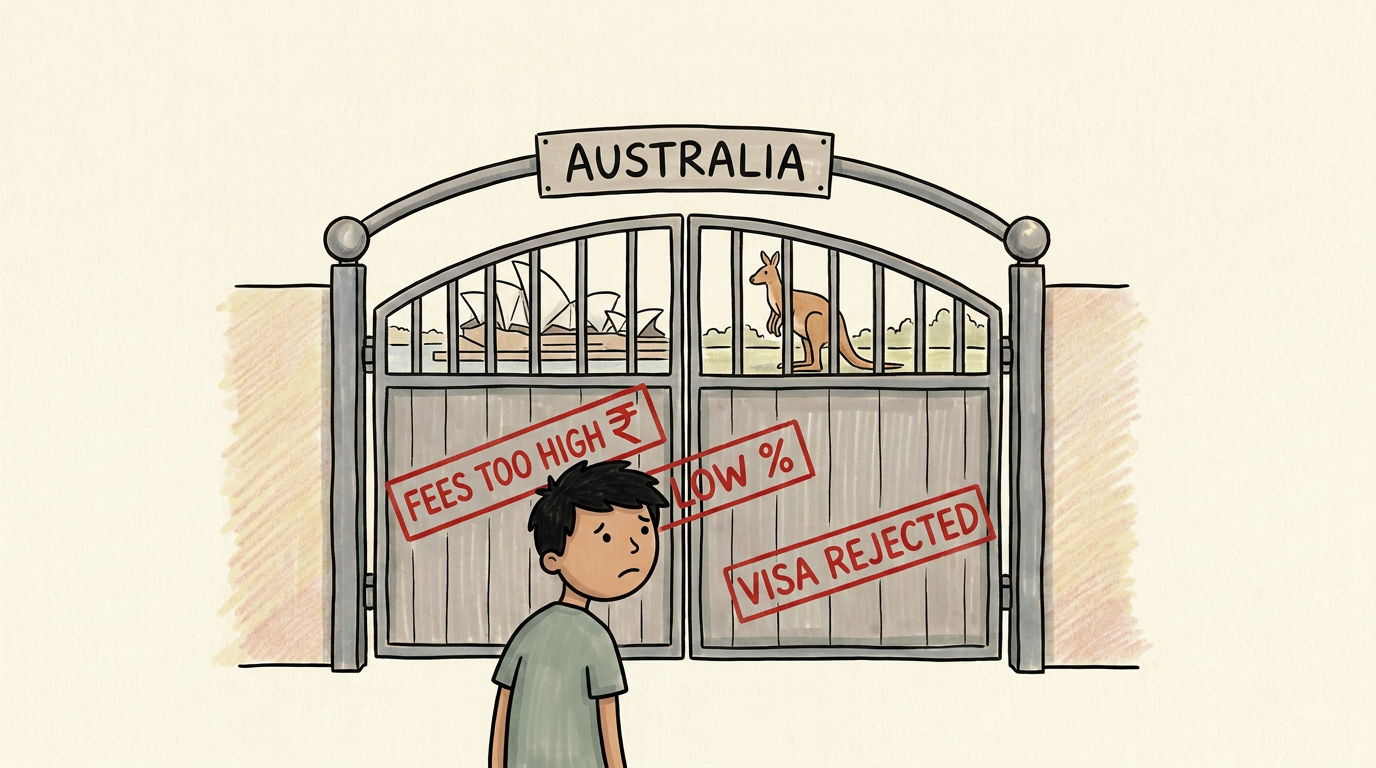
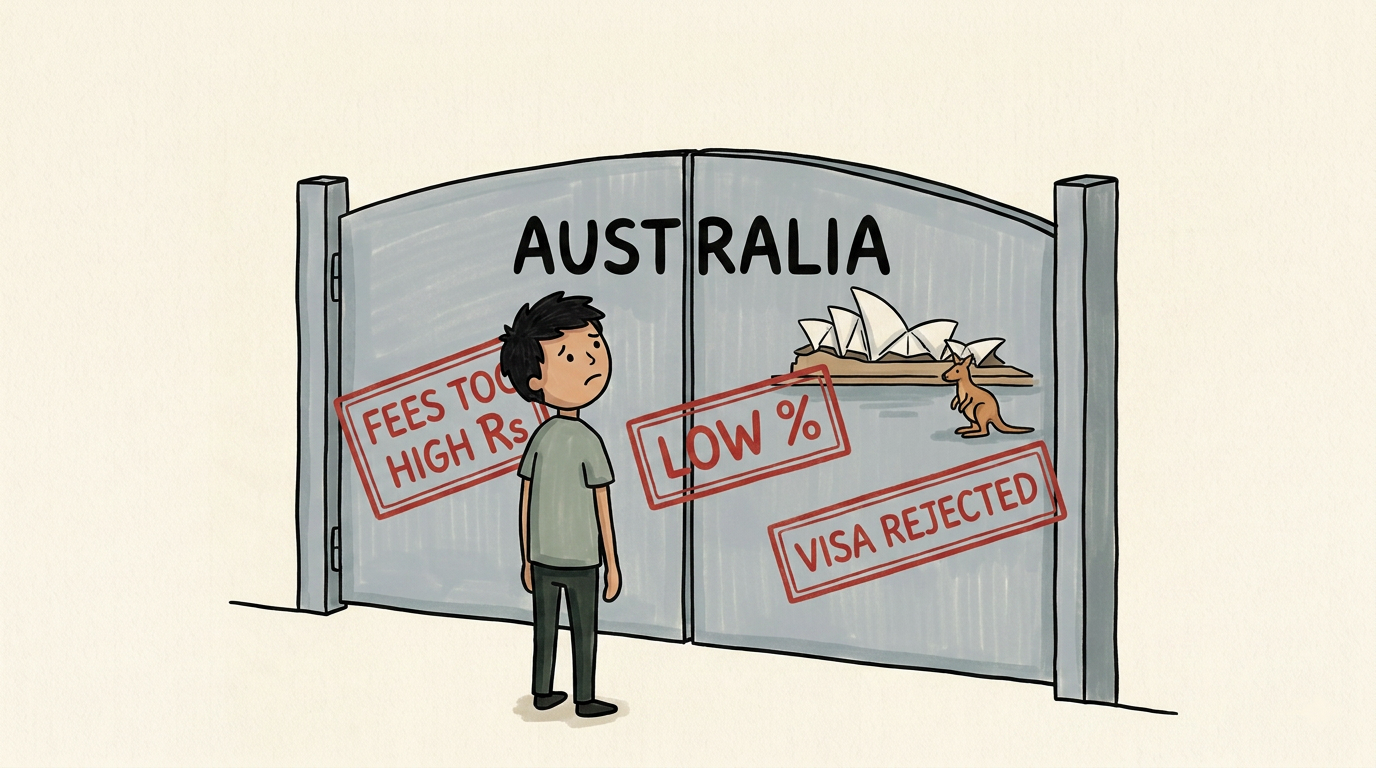
Reel-09: SC-01 use Pakistani Rs (not Indian rupee symbol)

diff --git a/Reel-09 - Australia Backdoor/Reel-09_SCENE-PROMPTS.md b/Reel-09 - Australia Backdoor/Reel-09_SCENE-PROMPTS.md
@@ -25,7 +25,8 @@ CHARACTER FILES: `Characters/Student 1.png` · `Characters/Good Consultant.png` 
 > [STYLE BLOCK]. Keep STUDENT 1 exactly consistent with the attached reference (grey-green t-shirt,
 > same face). Concept: STUDENT 1 stands looking up longingly at a big CLOSED grey gate labeled
 > "AUSTRALIA" (a small Sydney Opera House and a little kangaroo doodle behind it). Three red barrier
-> stamps block the gate: "FEES TOO HIGH ₨", "LOW %", "VISA REJECTED". His shoulders are dropped,
+> stamps block the gate: "FEES TOO HIGH Rs", "LOW %", "VISA REJECTED" (write money as the plain
+> letters "Rs" for Pakistani Rupees — NOT the Indian ₹ symbol). His shoulders are dropped,
 > disappointed. Keep him in the lower two-thirds, caption space at top, side margins.
 
 **SC-02 — The secret route (95% don't know)** · OBJECT · recraft-v4-1
